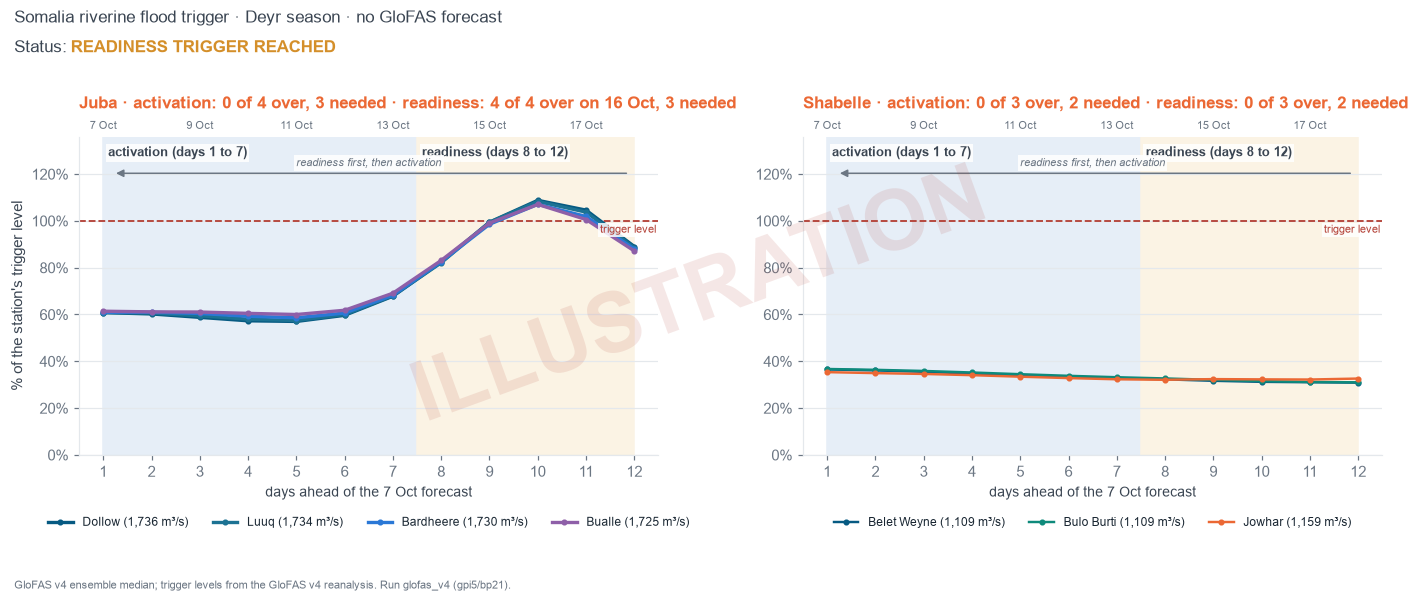
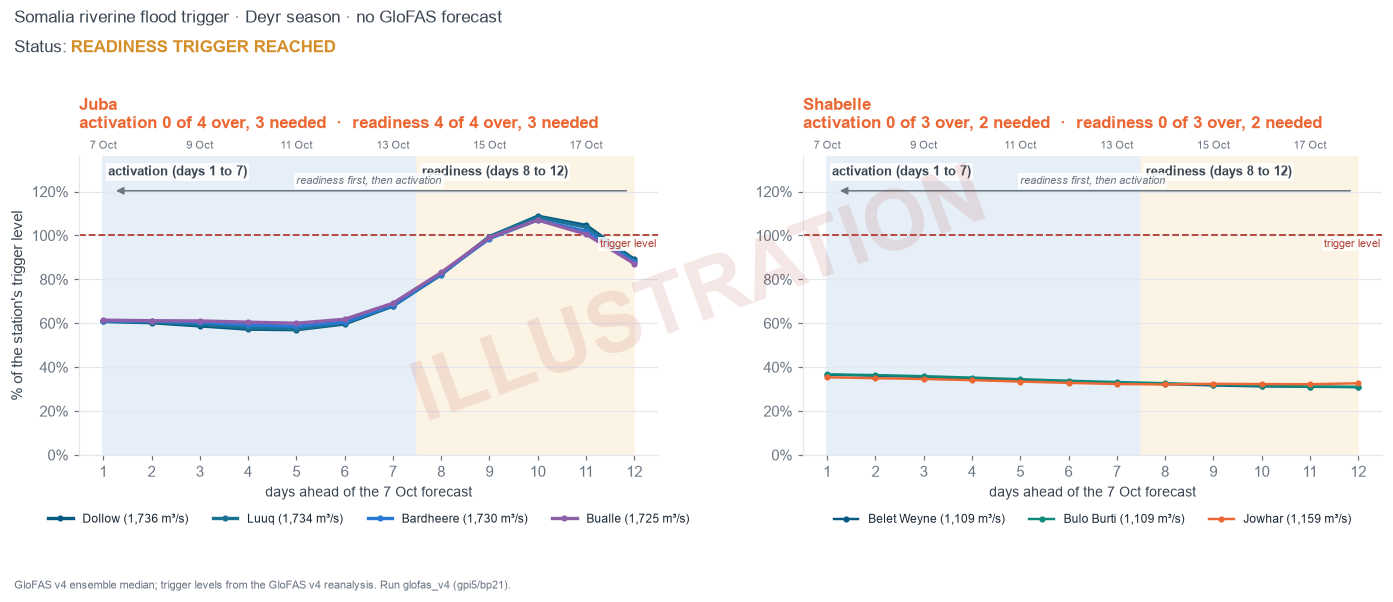
Fix the title line break in plot.py

diff --git a/src/monitoring/plot.py b/src/monitoring/plot.py
@@ -129,11 +129,9 @@ def _panel(ax, df, product, river, season, levels, result_window, role):
     title = f"{cfg.RIVER_TITLE[river]}"
     if result_window is not None:
         if product == "glofas":   # this panel carries both legs
-            title += f"
-activation {_count(result_window['action'])}  ·  readiness {_count(result_window['readiness'])}"
+            title += "\n" + f"activation {_count(result_window['action'])}  ·  readiness {_count(result_window['readiness'])}"
         else:
-            title += f"
-{role} {_count(result_window['action'])}"
+            title += "\n" + f"{role} {_count(result_window['action'])}"
     ax.set_title(title, color=PRODUCT_COLORS[product], pad=8)
     if missing:
         ax.text(0.995, 0.03, "not in live feed: " + ", ".join(missing), transform=ax.transAxes,
